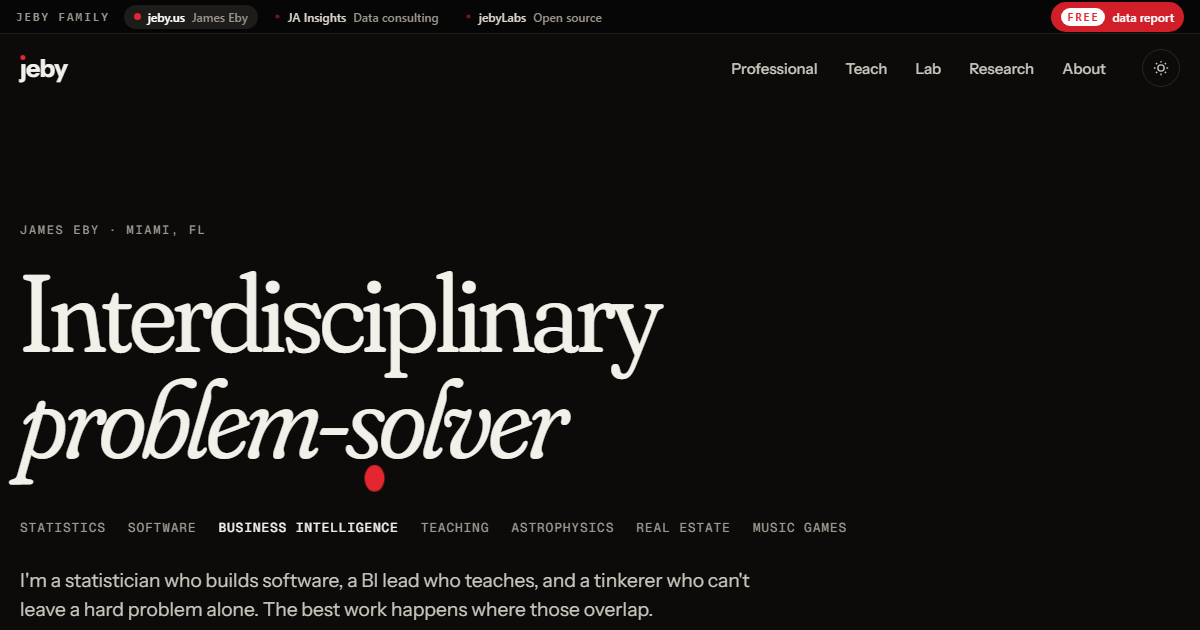
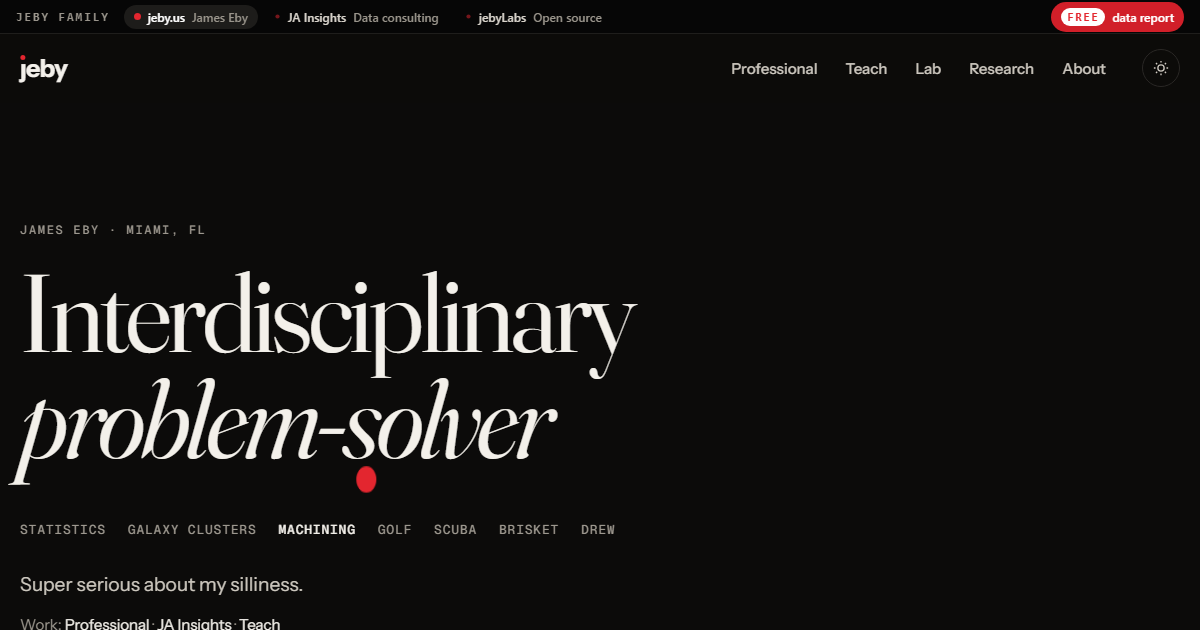
JEBYUS-0078: fix(home): Interdisciplinary problem-solver headline back; photo credit on the Drew photo (#22)
James (2026-11-17): the QA/QC passes failed by removing "Interdisciplinary
Problem-Solver" from his site; he wants it back on the main site, with a
photo credit for jenniferglezphotography.com on his photo with Drew.

- Home h1 restored to the pre-b46c863 markup: "Interdisciplinary
  problem-solver" with the dot slot; the hero eyebrow is
  "James Eby · Miami, FL" again so his name stays in the hero.
- Footer signature "Interdisciplinary problem-solver." back on every page.
- Home JSON-LD description back to "Interdisciplinary problem-solver:
  statistics, software, business intelligence and teaching."
- Photo credit "Photo: jenniferglezphotography.com" (linked, rel=noopener)
  under the photo on Home (about tile and Drew tile) and About (Drew tile),
  and in the About figure caption ("Drew and me. Photo: ...").
  .photo-credit in _src/jeby/src/site.css: 12 px mono, muted.
- og.png regenerated from the built Home (python _src/og.py).
- _src/ARCHITECTURE.md records the credit beside the photos.

Checks: python _src/build.py --check (0 files differ);
python _src/test_build.py (OK); python _src/test_check_docs.py (OK);
python _src/check_docs.py (164 files, 0 unowned, 0 problems);
python _src/check_links.py (854 links, none dead);
python _src/check_text.py --site jeby --widths 1440 390 (32 page renders
checked: 0 under 12 px, 0 below 4.5:1).

diff --git a/index.html b/index.html
@@ -13,7 +13,7 @@
 <link rel="stylesheet" href="assets/site.css">
 
 <script type="speculationrules">{"prerender":[{"where":{"href_matches":"/*"},"eagerness":"moderate"}]}</script>
-<script type="application/ld+json">{"@context": "https://schema.org", "@type": "Person", "name": "James Eby", "alternateName": "jeby", "url": "https://jeby.us/", "jobTitle": "Business intelligence leader and data scientist", "description": "Statistician in Miami, FL.", "address": {"@type": "PostalAddress", "addressLocality": "Miami", "addressRegion": "FL", "addressCountry": "US"}, "alumniOf": {"@type": "CollegeOrUniversity", "name": "Carnegie Mellon University"}, "knowsLanguage": ["en", "es"], "sameAs": ["https://www.instagram.com/jeby_d/", "https://www.linkedin.com/in/jeby-d", "https://github.com/jameseby21"]}</script>
+<script type="application/ld+json">{"@context": "https://schema.org", "@type": "Person", "name": "James Eby", "alternateName": "jeby", "url": "https://jeby.us/", "jobTitle": "Business intelligence leader and data scientist", "description": "Interdisciplinary problem-solver: statistics, software, business intelligence and teaching.", "address": {"@type": "PostalAddress", "addressLocality": "Miami", "addressRegion": "FL", "addressCountry": "US"}, "alumniOf": {"@type": "CollegeOrUniversity", "name": "Carnegie Mellon University"}, "knowsLanguage": ["en", "es"], "sameAs": ["https://www.instagram.com/jeby_d/", "https://www.linkedin.com/in/jeby-d", "https://github.com/jameseby21"]}</script>
 </head>
 <body data-page="home">
 <a class="skip" href="#main">Skip to content</a>
@@ -28,8 +28,8 @@
 </div></header>
 <main id="main">
 <section class="hero wrap">
-  <div class="eyebrow">Miami, FL</div>
-  <h1 class="page-title">James <span style="white-space:nowrap"><em>Eby</em><span class="dot-slot" aria-hidden="true"></span></span></h1>
+  <div class="eyebrow">James Eby · Miami, FL</div>
+  <h1 class="page-title">Interdisciplinary <span style="white-space:nowrap"><em>problem-solver</em><span class="dot-slot" aria-hidden="true"></span></span></h1>
   <ul class="disciplines" aria-label="Some of what I spend time on"><li><a href="research.html">Statistics</a></li><li><a href="research.html">Galaxy clusters</a></li><li><a href="about.html#interests">Machining</a></li><li><a href="about.html#interests">Golf</a></li><li><a href="about.html#interests">SCUBA</a></li><li><a href="about.html#interests">Brisket</a></li><li><a href="about.html#drew">Drew</a></li></ul>
   <p class="lede">Super serious about my silliness.</p>
   <p class="hero-work">Work: <a href="professional.html">Professional</a> · <a data-x="jai" data-p="index.html">JA Insights</a> · <a href="teach.html">Teach</a></p>
@@ -45,7 +45,7 @@
 <section class="wrap block" aria-label="Start here">
   <div class="bento">
     <div class="tile span-7 about-tile">
-      <picture class="me"><img src="assets/james-drew-600.jpg" srcset="assets/james-drew-600.jpg 600w, assets/james-drew.jpg 1000w" sizes="(max-width:640px) 90vw, 280px" alt="James holding Drew, his black Scottish Terrier, in a Miami backyard" width="600" height="750" loading="lazy"></picture>
+      <div class="me-wrap"><picture class="me"><img src="assets/james-drew-600.jpg" srcset="assets/james-drew-600.jpg 600w, assets/james-drew.jpg 1000w" sizes="(max-width:640px) 90vw, 280px" alt="James holding Drew, his black Scottish Terrier, in a Miami backyard" width="600" height="750" loading="lazy"></picture><p class="photo-credit">Photo: <a href="https://jenniferglezphotography.com" rel="noopener">jenniferglezphotography.com</a></p></div>
       <div class="about-text"><div class="eyebrow">About</div>
       <h2>Hi, I'm James.</h2>
       <p>I live in Miami with Drew. I studied statistics at Carnegie Mellon, and I have more side projects than free evenings.</p>
@@ -54,7 +54,7 @@
     </div>
     <div class="tile span-5 drew-tile">
       <div class="eyebrow">Scottish Terrier</div>
-      <div class="drew-photo"><img src="assets/james-drew-600.jpg" alt="Drew, a black Scottish Terrier, in James&#39;s arms in a Miami backyard" width="600" height="750" loading="lazy"></div>
+      <div class="drew-photo"><img src="assets/james-drew-600.jpg" alt="Drew, a black Scottish Terrier, in James&#39;s arms in a Miami backyard" width="600" height="750" loading="lazy"></div><p class="photo-credit">Photo: <a href="https://jenniferglezphotography.com" rel="noopener">jenniferglezphotography.com</a></p>
       <h2>Drew</h2>
       <p>He&#x27;s on my business cards, my QR codes and half my projects. Nobody asked him.</p>
     </div>
@@ -88,7 +88,7 @@
   <ul class="now"><li><b>Research</b><span>Picking the galaxy-cluster work back up, ten years after the poster, to see if it holds. <a class="now-go" href="research.html" aria-label="Research: more"><span class="arrow" aria-hidden="true">→</span></a></span></li><li><b>Building</b><span>A band game that turns any song into a chart you can actually play. <a class="now-go" href="lab.html#musicalgames" aria-label="Building: more"><span class="arrow" aria-hidden="true">→</span></a></span></li><li><b>Teaching</b><span>Taking on math, statistics and data students again. <a class="now-go" href="teach.html" aria-label="Teaching: more"><span class="arrow" aria-hidden="true">→</span></a></span></li><li><b>Work</b><span>Looking for my next BI leadership role. <a class="now-go" href="professional.html" aria-label="Work: more"><span class="arrow" aria-hidden="true">→</span></a></span></li></ul>
 </section></main>
 <footer class="site-footer"><div class="wrap">
-  <div><p class="sig">No trackers and no pop-ups. Just pages.</p><small>© <span data-year>2026</span> James Eby · Miami, FL</small></div>
+  <div><p class="sig">Interdisciplinary problem-solver.</p><small>© <span data-year>2026</span> James Eby · Miami, FL</small></div>
   <div><h3>Site</h3><ul><li><a href="index.html">Home</a></li><li><a href="professional.html">Professional</a></li><li><a href="teach.html">Teach</a></li><li><a href="lab.html">Lab</a></li><li><a href="research.html">Research</a></li><li><a href="about.html">About</a></li></ul></div>
   <div><h3>Free</h3><ul><li><a data-x="jai" data-p="report.html">Data report</a></li><li><a href="qr.html">Image to QR code</a></li><li><a href="lab.html">Lab projects</a></li></ul></div>
   <div><h3>Elsewhere</h3><ul><li><a href="https://www.instagram.com/jeby_d/" target="_blank" rel="noopener">Instagram</a></li><li><a href="https://www.linkedin.com/in/jeby-d" target="_blank" rel="noopener">LinkedIn</a></li><li><a href="https://github.com/jameseby21" target="_blank" rel="noopener">GitHub</a></li><li><a href="#" data-copy-email="jeby@jainsights.com">Email</a></li></ul></div>

diff --git a/about.html b/about.html
@@ -34,8 +34,8 @@
   <div class="prose"><p>I live in Miami with Drew, a Scottish Terrier who appears on more of my projects than I do.</p><p>I studied statistics at Carnegie Mellon University with a concentration in computer science, I am a senior BI manager, and I&#x27;m drawn to difficult problems.</p><p>Away from the keyboard I like things that can&#x27;t be rushed: machining, golf, diving, archery, kayaking with Drew, and brisket, which is twelve hours of patience for twenty minutes of dinner.</p><p class="work-line">Work lives on other pages: <a href="professional.html">Professional</a>, <a data-x="jai" data-p="index.html">JA Insights</a> and <a href="teach.html">Teach</a>.</p>
     <div class="tile" id="interests" style="margin-top:28px"><dl class="facts"><dt>Based</dt><dd>Miami, FL</dd><dt>Studied</dt><dd>B.S. Statistics, Carnegie Mellon, 2019</dd><dt>Off the clock</dt><dd>Machining, golf, SCUBA, archery, kayaking with Drew, and brisket</dd></dl><a class="go" href="https://www.instagram.com/jeby_d/" target="_blank" rel="noopener">@jeby_d on Instagram <span class="arrow" aria-hidden="true">→</span></a></div></div>
   <div style="display:grid;gap:16px">
-    <figure class="photo"><img src="assets/james-drew.jpg" srcset="assets/james-drew-600.jpg 600w, assets/james-drew.jpg 1000w" sizes="(max-width:860px) 92vw, 460px" alt="James holding Drew, his black Scottish Terrier, in a Miami backyard" width="1000" height="1250"><figcaption>Drew and me.</figcaption></figure>
-    <div class="tile drew-tile" id="drew"><div class="eyebrow">Scottish Terrier</div><div class="drew-photo"><img src="assets/james-drew-600.jpg" alt="Drew, a black Scottish Terrier, in James&#39;s arms in a Miami backyard" width="600" height="750" loading="lazy"></div><h2>Drew</h2><p>He&#x27;s on my business cards, my QR codes and half my projects. Nobody asked him.</p></div>
+    <figure class="photo"><img src="assets/james-drew.jpg" srcset="assets/james-drew-600.jpg 600w, assets/james-drew.jpg 1000w" sizes="(max-width:860px) 92vw, 460px" alt="James holding Drew, his black Scottish Terrier, in a Miami backyard" width="1000" height="1250"><figcaption>Drew and me. Photo: <a href="https://jenniferglezphotography.com" rel="noopener">jenniferglezphotography.com</a></figcaption></figure>
+    <div class="tile drew-tile" id="drew"><div class="eyebrow">Scottish Terrier</div><div class="drew-photo"><img src="assets/james-drew-600.jpg" alt="Drew, a black Scottish Terrier, in James&#39;s arms in a Miami backyard" width="600" height="750" loading="lazy"></div><p class="photo-credit">Photo: <a href="https://jenniferglezphotography.com" rel="noopener">jenniferglezphotography.com</a></p><h2>Drew</h2><p>He&#x27;s on my business cards, my QR codes and half my projects. Nobody asked him.</p></div>
   </div>
 </div></section>
 <section class="wrap block" id="story" aria-labelledby="story-h"><div class="story-grid">
@@ -44,7 +44,7 @@
 <section class="wrap block" id="contact" aria-labelledby="contact-h"><div class="callout"><div><div class="eyebrow">Contact</div><h3 id="contact-h">Email is the fastest way to reach me.</h3><p class="muted" style="margin-top:6px" data-email="jeby@jainsights.com" data-show>jeby@jainsights.com</p></div>
   <div style="display:flex;gap:10px;flex-wrap:wrap"><a class="btn solid" href="#" data-copy-email="jeby@jainsights.com"><svg viewBox="0 0 24 24" fill="none" stroke="currentColor" stroke-width="1.8" aria-hidden="true"><rect x="3" y="5" width="18" height="14" rx="2"/><path d="m3.5 6.5 8.5 6.5 8.5-6.5"/></svg> Copy email</a><a class="btn" href="https://www.linkedin.com/in/jeby-d" target="_blank" rel="noopener"><svg viewBox="0 0 24 24" fill="currentColor" aria-hidden="true"><path d="M4.98 3.5a2.5 2.5 0 1 1 0 5 2.5 2.5 0 0 1 0-5zM3 9.5h4V21H3zM9.5 9.5h3.8v1.6h.06c.53-1 1.84-2.06 3.79-2.06 4.05 0 4.8 2.67 4.8 6.13V21h-4v-5.1c0-1.22-.02-2.78-1.7-2.78-1.7 0-1.96 1.33-1.96 2.7V21h-4z"/></svg> LinkedIn</a><a class="btn" href="https://www.instagram.com/jeby_d/" target="_blank" rel="noopener"><svg viewBox="0 0 24 24" fill="none" stroke="currentColor" stroke-width="1.8" aria-hidden="true"><rect x="3" y="3" width="18" height="18" rx="5"/><circle cx="12" cy="12" r="4"/><circle cx="17.5" cy="6.5" r="1" fill="currentColor"/></svg> Instagram</a><a class="btn" href="https://github.com/jameseby21" target="_blank" rel="noopener"><svg viewBox="0 0 24 24" fill="currentColor" aria-hidden="true"><path d="M12 .5a11.5 11.5 0 0 0-3.64 22.41c.58.1.79-.25.79-.56v-2c-3.2.7-3.88-1.37-3.88-1.37-.53-1.33-1.28-1.69-1.28-1.69-1.05-.71.08-.7.08-.7 1.16.08 1.77 1.19 1.77 1.19 1.03 1.77 2.7 1.26 3.36.96.1-.75.4-1.26.73-1.55-2.55-.29-5.24-1.28-5.24-5.68 0-1.25.45-2.28 1.18-3.08-.12-.29-.51-1.46.11-3.04 0 0 .97-.31 3.17 1.18a11 11 0 0 1 5.77 0c2.2-1.49 3.17-1.18 3.17-1.18.62 1.58.23 2.75.11 3.04.74.8 1.18 1.83 1.18 3.08 0 4.41-2.7 5.38-5.26 5.67.41.36.78 1.06.78 2.14v3.17c0 .31.21.67.8.56A11.5 11.5 0 0 0 12 .5z"/></svg> GitHub</a></div></div></section></main>
 <footer class="site-footer"><div class="wrap">
-  <div><p class="sig">No trackers and no pop-ups. Just pages.</p><small>© <span data-year>2026</span> James Eby · Miami, FL</small></div>
+  <div><p class="sig">Interdisciplinary problem-solver.</p><small>© <span data-year>2026</span> James Eby · Miami, FL</small></div>
   <div><h3>Site</h3><ul><li><a href="index.html">Home</a></li><li><a href="professional.html">Professional</a></li><li><a href="teach.html">Teach</a></li><li><a href="lab.html">Lab</a></li><li><a href="research.html">Research</a></li><li><a href="about.html">About</a></li></ul></div>
   <div><h3>Free</h3><ul><li><a data-x="jai" data-p="report.html">Data report</a></li><li><a href="qr.html">Image to QR code</a></li><li><a href="lab.html">Lab projects</a></li></ul></div>
   <div><h3>Elsewhere</h3><ul><li><a href="https://www.instagram.com/jeby_d/" target="_blank" rel="noopener">Instagram</a></li><li><a href="https://www.linkedin.com/in/jeby-d" target="_blank" rel="noopener">LinkedIn</a></li><li><a href="https://github.com/jameseby21" target="_blank" rel="noopener">GitHub</a></li><li><a href="#" data-copy-email="jeby@jainsights.com">Email</a></li></ul></div>

diff --git a/lab.html b/lab.html
@@ -62,7 +62,7 @@
 <div class="row-body lab-body"><div><p>Static pages generated from one content file, with native page transitions and no tracking.</p><div class="chips"><span class="chip">HTML</span><span class="chip">CSS</span><span class="chip">JavaScript</span><span class="chip">Python</span></div><div class="tiers"><div class="tier"><span class="eyebrow">Free · jebyLabs</span><p>Everything</p></div>
       <div class="tier none"><span class="eyebrow">Paid version, planned</span><p>No paid version planned</p></div></div><div class="lab-links"><a class="btn small" href="https://github.com/jameseby21/jeby-us" target="_blank" rel="noopener"><svg viewBox="0 0 24 24" fill="currentColor" aria-hidden="true"><path d="M12 .5a11.5 11.5 0 0 0-3.64 22.41c.58.1.79-.25.79-.56v-2c-3.2.7-3.88-1.37-3.88-1.37-.53-1.33-1.28-1.69-1.28-1.69-1.05-.71.08-.7.08-.7 1.16.08 1.77 1.19 1.77 1.19 1.03 1.77 2.7 1.26 3.36.96.1-.75.4-1.26.73-1.55-2.55-.29-5.24-1.28-5.24-5.68 0-1.25.45-2.28 1.18-3.08-.12-.29-.51-1.46.11-3.04 0 0 .97-.31 3.17 1.18a11 11 0 0 1 5.77 0c2.2-1.49 3.17-1.18 3.17-1.18.62 1.58.23 2.75.11 3.04.74.8 1.18 1.83 1.18 3.08 0 4.41-2.7 5.38-5.26 5.67.41.36.78 1.06.78 2.14v3.17c0 .31.21.67.8.56A11.5 11.5 0 0 0 12 .5z"/></svg> Code</a></div></div></div></details></div></section></section></main>
 <footer class="site-footer"><div class="wrap">
-  <div><p class="sig">No trackers and no pop-ups. Just pages.</p><small>© <span data-year>2026</span> James Eby · Miami, FL</small></div>
+  <div><p class="sig">Interdisciplinary problem-solver.</p><small>© <span data-year>2026</span> James Eby · Miami, FL</small></div>
   <div><h3>Site</h3><ul><li><a href="index.html">Home</a></li><li><a href="professional.html">Professional</a></li><li><a href="teach.html">Teach</a></li><li><a href="lab.html">Lab</a></li><li><a href="research.html">Research</a></li><li><a href="about.html">About</a></li></ul></div>
   <div><h3>Free</h3><ul><li><a data-x="jai" data-p="report.html">Data report</a></li><li><a href="qr.html">Image to QR code</a></li><li><a href="lab.html">Lab projects</a></li></ul></div>
   <div><h3>Elsewhere</h3><ul><li><a href="https://www.instagram.com/jeby_d/" target="_blank" rel="noopener">Instagram</a></li><li><a href="https://www.linkedin.com/in/jeby-d" target="_blank" rel="noopener">LinkedIn</a></li><li><a href="https://github.com/jameseby21" target="_blank" rel="noopener">GitHub</a></li><li><a href="#" data-copy-email="jeby@jainsights.com">Email</a></li></ul></div>

diff --git a/professional.html b/professional.html
@@ -92,7 +92,7 @@
 <section class="wrap block"><div class="callout"><div><div class="eyebrow">Hiring</div><h3>Building or rebuilding an analytics team?</h3></div>
   <div style="display:flex;gap:10px;flex-wrap:wrap"><a class="btn solid" href="#" data-copy-email="jeby@jainsights.com"><svg viewBox="0 0 24 24" fill="none" stroke="currentColor" stroke-width="1.8" aria-hidden="true"><rect x="3" y="5" width="18" height="14" rx="2"/><path d="m3.5 6.5 8.5 6.5 8.5-6.5"/></svg> Email me</a><a class="btn" href="https://www.linkedin.com/in/jeby-d" target="_blank" rel="noopener"><svg viewBox="0 0 24 24" fill="currentColor" aria-hidden="true"><path d="M4.98 3.5a2.5 2.5 0 1 1 0 5 2.5 2.5 0 0 1 0-5zM3 9.5h4V21H3zM9.5 9.5h3.8v1.6h.06c.53-1 1.84-2.06 3.79-2.06 4.05 0 4.8 2.67 4.8 6.13V21h-4v-5.1c0-1.22-.02-2.78-1.7-2.78-1.7 0-1.96 1.33-1.96 2.7V21h-4z"/></svg> LinkedIn</a></div></div></section></main>
 <footer class="site-footer"><div class="wrap">
-  <div><p class="sig">No trackers and no pop-ups. Just pages.</p><small>© <span data-year>2026</span> James Eby · Miami, FL</small></div>
+  <div><p class="sig">Interdisciplinary problem-solver.</p><small>© <span data-year>2026</span> James Eby · Miami, FL</small></div>
   <div><h3>Site</h3><ul><li><a href="index.html">Home</a></li><li><a href="professional.html">Professional</a></li><li><a href="teach.html">Teach</a></li><li><a href="lab.html">Lab</a></li><li><a href="research.html">Research</a></li><li><a href="about.html">About</a></li></ul></div>
   <div><h3>Free</h3><ul><li><a data-x="jai" data-p="report.html">Data report</a></li><li><a href="qr.html">Image to QR code</a></li><li><a href="lab.html">Lab projects</a></li></ul></div>
   <div><h3>Elsewhere</h3><ul><li><a href="https://www.instagram.com/jeby_d/" target="_blank" rel="noopener">Instagram</a></li><li><a href="https://www.linkedin.com/in/jeby-d" target="_blank" rel="noopener">LinkedIn</a></li><li><a href="https://github.com/jameseby21" target="_blank" rel="noopener">GitHub</a></li><li><a href="#" data-copy-email="jeby@jainsights.com">Email</a></li></ul></div>

diff --git a/teach.html b/teach.html
@@ -75,7 +75,7 @@
 </section>
 <section class="wrap block"><div class="callout"><div><div class="eyebrow">Not sure where to start?</div><h3>Book a free 20-minute intro.</h3></div><a class="btn solid" href="mailto:jeby@jainsights.com?subject=Free 20-minute intro" data-email="jeby@jainsights.com" data-subject="Free 20-minute intro">Book the intro <span class="arrow" aria-hidden="true">→</span></a></div></section></main>
 <footer class="site-footer"><div class="wrap">
-  <div><p class="sig">No trackers and no pop-ups. Just pages.</p><small>© <span data-year>2026</span> James Eby · Miami, FL</small></div>
+  <div><p class="sig">Interdisciplinary problem-solver.</p><small>© <span data-year>2026</span> James Eby · Miami, FL</small></div>
   <div><h3>Site</h3><ul><li><a href="index.html">Home</a></li><li><a href="professional.html">Professional</a></li><li><a href="teach.html">Teach</a></li><li><a href="lab.html">Lab</a></li><li><a href="research.html">Research</a></li><li><a href="about.html">About</a></li></ul></div>
   <div><h3>Free</h3><ul><li><a data-x="jai" data-p="report.html">Data report</a></li><li><a href="qr.html">Image to QR code</a></li><li><a href="lab.html">Lab projects</a></li></ul></div>
   <div><h3>Elsewhere</h3><ul><li><a href="https://www.instagram.com/jeby_d/" target="_blank" rel="noopener">Instagram</a></li><li><a href="https://www.linkedin.com/in/jeby-d" target="_blank" rel="noopener">LinkedIn</a></li><li><a href="https://github.com/jameseby21" target="_blank" rel="noopener">GitHub</a></li><li><a href="#" data-copy-email="jeby@jainsights.com">Email</a></li></ul></div>

diff --git a/research.html b/research.html
@@ -35,7 +35,7 @@
 <p class="rs-foot">James Eby · Carnegie Mellon University, Department of Statistics · Advisor: Peter Freeman · 2015 · <a href="research/poster.pdf" target="_blank" rel="noopener">The original poster (PDF)</a> · Use the arrow keys or swipe to move between slides.</p>
 </section></main>
 <footer class="site-footer"><div class="wrap">
-  <div><p class="sig">No trackers and no pop-ups. Just pages.</p><small>© <span data-year>2026</span> James Eby · Miami, FL</small></div>
+  <div><p class="sig">Interdisciplinary problem-solver.</p><small>© <span data-year>2026</span> James Eby · Miami, FL</small></div>
   <div><h3>Site</h3><ul><li><a href="index.html">Home</a></li><li><a href="professional.html">Professional</a></li><li><a href="teach.html">Teach</a></li><li><a href="lab.html">Lab</a></li><li><a href="research.html">Research</a></li><li><a href="about.html">About</a></li></ul></div>
   <div><h3>Free</h3><ul><li><a data-x="jai" data-p="report.html">Data report</a></li><li><a href="qr.html">Image to QR code</a></li><li><a href="lab.html">Lab projects</a></li></ul></div>
   <div><h3>Elsewhere</h3><ul><li><a href="https://www.instagram.com/jeby_d/" target="_blank" rel="noopener">Instagram</a></li><li><a href="https://www.linkedin.com/in/jeby-d" target="_blank" rel="noopener">LinkedIn</a></li><li><a href="https://github.com/jameseby21" target="_blank" rel="noopener">GitHub</a></li><li><a href="#" data-copy-email="jeby@jainsights.com">Email</a></li></ul></div>

diff --git a/qr.html b/qr.html
@@ -54,7 +54,7 @@ Goal: a QR code for [YOUR URL] with my image blended in, that still scans on an 
   </div>
 </section></main>
 <footer class="site-footer"><div class="wrap">
-  <div><p class="sig">No trackers and no pop-ups. Just pages.</p><small>© <span data-year>2026</span> James Eby · Miami, FL</small></div>
+  <div><p class="sig">Interdisciplinary problem-solver.</p><small>© <span data-year>2026</span> James Eby · Miami, FL</small></div>
   <div><h3>Site</h3><ul><li><a href="index.html">Home</a></li><li><a href="professional.html">Professional</a></li><li><a href="teach.html">Teach</a></li><li><a href="lab.html">Lab</a></li><li><a href="research.html">Research</a></li><li><a href="about.html">About</a></li></ul></div>
   <div><h3>Free</h3><ul><li><a data-x="jai" data-p="report.html">Data report</a></li><li><a href="qr.html">Image to QR code</a></li><li><a href="lab.html">Lab projects</a></li></ul></div>
   <div><h3>Elsewhere</h3><ul><li><a href="https://www.instagram.com/jeby_d/" target="_blank" rel="noopener">Instagram</a></li><li><a href="https://www.linkedin.com/in/jeby-d" target="_blank" rel="noopener">LinkedIn</a></li><li><a href="https://github.com/jameseby21" target="_blank" rel="noopener">GitHub</a></li><li><a href="#" data-copy-email="jeby@jainsights.com">Email</a></li></ul></div>

diff --git a/yt.html b/yt.html
@@ -54,7 +54,7 @@ Goal: a QR code for [YOUR URL] with my image blended in, that still scans on an 
   </div>
 </section></main>
 <footer class="site-footer"><div class="wrap">
-  <div><p class="sig">No trackers and no pop-ups. Just pages.</p><small>© <span data-year>2026</span> James Eby · Miami, FL</small></div>
+  <div><p class="sig">Interdisciplinary problem-solver.</p><small>© <span data-year>2026</span> James Eby · Miami, FL</small></div>
   <div><h3>Site</h3><ul><li><a href="index.html">Home</a></li><li><a href="professional.html">Professional</a></li><li><a href="teach.html">Teach</a></li><li><a href="lab.html">Lab</a></li><li><a href="research.html">Research</a></li><li><a href="about.html">About</a></li></ul></div>
   <div><h3>Free</h3><ul><li><a data-x="jai" data-p="report.html">Data report</a></li><li><a href="qr.html">Image to QR code</a></li><li><a href="lab.html">Lab projects</a></li></ul></div>
   <div><h3>Elsewhere</h3><ul><li><a href="https://www.instagram.com/jeby_d/" target="_blank" rel="noopener">Instagram</a></li><li><a href="https://www.linkedin.com/in/jeby-d" target="_blank" rel="noopener">LinkedIn</a></li><li><a href="https://github.com/jameseby21" target="_blank" rel="noopener">GitHub</a></li><li><a href="#" data-copy-email="jeby@jainsights.com">Email</a></li></ul></div>

diff --git a/_src/jeby/src/site.css b/_src/jeby/src/site.css
@@ -326,6 +326,10 @@ details.group[open]>summary .chev{transform:rotate(180deg)}
 .me img{aspect-ratio:4/5}
 figure.photo{margin:0;display:grid;gap:8px}
 figure.photo figcaption{font:500 12px/1.3 var(--mono);letter-spacing:.12em;text-transform:uppercase;color:var(--muted)}
+/* photographer credit on the photo with Drew (JEBYUS-0078) */
+p.photo-credit{font:500 12px/1.3 var(--mono);letter-spacing:.04em;color:var(--muted);margin:8px 0 0}
+.photo-credit a,figure.photo figcaption a{color:inherit;text-transform:none;letter-spacing:.04em}
+.drew-tile .photo-credit{color:#5f5a52;margin:0}
 @media (max-width:640px){.about-tile{grid-template-columns:1fr}}
 
 /* qr prompt page */

diff --git a/assets/site.css b/assets/site.css
@@ -326,6 +326,10 @@ details.group[open]>summary .chev{transform:rotate(180deg)}
 .me img{aspect-ratio:4/5}
 figure.photo{margin:0;display:grid;gap:8px}
 figure.photo figcaption{font:500 12px/1.3 var(--mono);letter-spacing:.12em;text-transform:uppercase;color:var(--muted)}
+/* photographer credit on the photo with Drew (JEBYUS-0078) */
+p.photo-credit{font:500 12px/1.3 var(--mono);letter-spacing:.04em;color:var(--muted);margin:8px 0 0}
+.photo-credit a,figure.photo figcaption a{color:inherit;text-transform:none;letter-spacing:.04em}
+.drew-tile .photo-credit{color:#5f5a52;margin:0}
 @media (max-width:640px){.about-tile{grid-template-columns:1fr}}
 
 /* qr prompt page */

diff --git a/_src/jeby/build.py b/_src/jeby/build.py
@@ -50,7 +50,7 @@ def header(active):
 def footer():
     site = "".join(f'<li><a href="{k}.html">{n}</a></li>' for k, n in PAGES)
     return f'''<footer class="site-footer"><div class="wrap">
-  <div><p class="sig">No trackers and no pop-ups. Just pages.</p><small>© <span data-year>2026</span> James Eby · Miami, FL</small></div>
+  <div><p class="sig">Interdisciplinary problem-solver.</p><small>© <span data-year>2026</span> James Eby · Miami, FL</small></div>
   <div><h3>Site</h3><ul><li><a href="index.html">Home</a></li>{site}</ul></div>
   <div><h3>Free</h3><ul><li><a data-x="jai" data-p="report.html">Data report</a></li><li><a href="qr.html">Image to QR code</a></li><li><a href="lab.html">Lab projects</a></li></ul></div>
   <div><h3>Elsewhere</h3><ul><li><a href="{C.CONFIG["instagram"]}" target="_blank" rel="noopener">Instagram</a></li><li><a href="{C.CONFIG["linkedin"]}" target="_blank" rel="noopener">LinkedIn</a></li><li><a href="{C.CONFIG["github"]}" target="_blank" rel="noopener">GitHub</a></li>{f'<li><a href="{C.CONFIG["youtube"]}" target="_blank" rel="noopener">YouTube</a></li>' if C.CONFIG["youtube"] else ""}<li><a href="#" data-copy-email="{C.CONFIG["email"]}">Email</a></li></ul></div>
@@ -58,7 +58,7 @@ def footer():
 </div></footer>'''
 
 PERSON = {"@context": "https://schema.org", "@type": "Person", "name": "James Eby", "alternateName": "jeby", "url": "https://jeby.us/",
-          "jobTitle": "Business intelligence leader and data scientist", "description": "Statistician in Miami, FL.",
+          "jobTitle": "Business intelligence leader and data scientist", "description": "Interdisciplinary problem-solver: statistics, software, business intelligence and teaching.",
           "address": {"@type": "PostalAddress", "addressLocality": "Miami", "addressRegion": "FL", "addressCountry": "US"},
           "alumniOf": {"@type": "CollegeOrUniversity", "name": "Carnegie Mellon University"}, "knowsLanguage": ["en", "es"],
           "sameAs": [C.CONFIG["instagram"], C.CONFIG["linkedin"], C.CONFIG["github"]]}
@@ -81,10 +81,13 @@ def page(key, title, desc, body, extra_head="", extra_js="", artifact=False):
     return f'<!doctype html>\n<html lang="en">\n<head>\n<meta charset="utf-8">\n<meta name="viewport" content="width=device-width, initial-scale=1, viewport-fit=cover">\n{head}\n</head>\n<body data-page="{key}">\n{bodyhtml}\n</body>\n</html>\n'
 
 # ---------------------------------------------------------------- shared bits
+# James (2026-11-17): every appearance of the photo with Drew credits the photographer.
+CREDIT_LINK = '<a href="https://jenniferglezphotography.com" rel="noopener">jenniferglezphotography.com</a>'
+PHOTO_CREDIT = f'<p class="photo-credit">Photo: {CREDIT_LINK}</p>'
 drew_src = (ST / "drew-tongue.svg").read_text(encoding="utf-8")
 drew_svg = re.sub(r"<style>.*?</style>", "", drew_src, flags=re.S).replace('class="tongue"', 'class="tongue-anim"').replace('id="mouth"', 'id="drew-mouth"').replace("url(#mouth)", "url(#drew-mouth)")
 drew_svg = re.sub(r'<svg ([^>]*?) width="512" height="504"', r'<svg \1', drew_svg).replace("<title>Drew sticking his tongue out</title>", "")
-DREW = '<div class="drew-photo"><img src="assets/james-drew-600.jpg" alt="Drew, a black Scottish Terrier, in James&#39;s arms in a Miami backyard" width="600" height="750" loading="lazy"></div>'
+DREW = '<div class="drew-photo"><img src="assets/james-drew-600.jpg" alt="Drew, a black Scottish Terrier, in James&#39;s arms in a Miami backyard" width="600" height="750" loading="lazy"></div>' + PHOTO_CREDIT
 
 def mark(item):
     t = BR.tile(item["id"], themed=True)
@@ -119,8 +122,8 @@ def free_strip(title="Free things"):
 stars = "".join(f'<circle cx="{(i*73)%400}" cy="{(i*131)%300}" r="{0.6 + (i%5)*0.35}" fill="{["#eeecf2","#4084ff","#ff2b3d"][i%7==0 and 2 or (i%5==0 and 1) or 0]}" opacity="{0.25 + (i%4)*0.18:.2f}"/>' for i in range(90))
 home = f'''
 <section class="hero wrap">
-  <div class="eyebrow">Miami, FL</div>
-  <h1 class="page-title">James <span style="white-space:nowrap"><em>Eby</em><span class="dot-slot" aria-hidden="true"></span></span></h1>
+  <div class="eyebrow">James Eby · Miami, FL</div>
+  <h1 class="page-title">Interdisciplinary <span style="white-space:nowrap"><em>problem-solver</em><span class="dot-slot" aria-hidden="true"></span></span></h1>
   <ul class="disciplines" aria-label="Some of what I spend time on">{"".join(f'<li><a href="{E(h)}">{E(d)}</a></li>' for d, h in C.DISCIPLINES)}</ul>
   <p class="lede">{E(C.HERO)}</p>
   <p class="hero-work">Work: <a href="professional.html">Professional</a> · <a data-x="jai" data-p="index.html">JA Insights</a> · <a href="teach.html">Teach</a></p>
@@ -129,7 +132,7 @@ home = f'''
 <section class="wrap block" aria-label="Start here">
   <div class="bento">
     <div class="tile span-7 about-tile">
-      <picture class="me"><img src="assets/james-drew-600.jpg" srcset="assets/james-drew-600.jpg 600w, assets/james-drew.jpg 1000w" sizes="(max-width:640px) 90vw, 280px" alt="James holding Drew, his black Scottish Terrier, in a Miami backyard" width="600" height="750" loading="lazy"></picture>
+      <div class="me-wrap"><picture class="me"><img src="assets/james-drew-600.jpg" srcset="assets/james-drew-600.jpg 600w, assets/james-drew.jpg 1000w" sizes="(max-width:640px) 90vw, 280px" alt="James holding Drew, his black Scottish Terrier, in a Miami backyard" width="600" height="750" loading="lazy"></picture>{PHOTO_CREDIT}</div>
       <div class="about-text"><div class="eyebrow">About</div>
       <h2>Hi, I'm James.</h2>
       <p>{E(C.ABOUT_SHORT)}</p>
@@ -356,7 +359,7 @@ about = f'''
   <div class="prose">{"".join(f"<p>{E(p)}</p>" for p in C.ABOUT_LONG)}<p class="work-line">Work lives on other pages: <a href="professional.html">Professional</a>, <a data-x="jai" data-p="index.html">JA Insights</a> and <a href="teach.html">Teach</a>.</p>
     <div class="tile" id="interests" style="margin-top:28px"><dl class="facts">{"".join(f"<dt>{E(a)}</dt><dd>{E(b)}</dd>" for a, b in C.FACTS)}</dl><a class="go" href="{C.CONFIG["instagram"]}" target="_blank" rel="noopener">@jeby_d on Instagram {ARROW}</a></div></div>
   <div style="display:grid;gap:16px">
-    <figure class="photo"><img src="assets/james-drew.jpg" srcset="assets/james-drew-600.jpg 600w, assets/james-drew.jpg 1000w" sizes="(max-width:860px) 92vw, 460px" alt="James holding Drew, his black Scottish Terrier, in a Miami backyard" width="1000" height="1250"><figcaption>Drew and me.</figcaption></figure>
+    <figure class="photo"><img src="assets/james-drew.jpg" srcset="assets/james-drew-600.jpg 600w, assets/james-drew.jpg 1000w" sizes="(max-width:860px) 92vw, 460px" alt="James holding Drew, his black Scottish Terrier, in a Miami backyard" width="1000" height="1250"><figcaption>Drew and me. Photo: {CREDIT_LINK}</figcaption></figure>
     <div class="tile drew-tile" id="drew"><div class="eyebrow">{E(C.DREW["role"])}</div>{DREW}<h2>{E(C.DREW["title"])}</h2><p>{E(C.DREW["short"])}</p></div>
   </div>
 </div></section>

diff --git a/_src/ARCHITECTURE.md b/_src/ARCHITECTURE.md
@@ -316,7 +316,7 @@ Paths are sources; the published copy at the repo root or under `assets/` is byt
 | Drew QR code | `_src/jeby/static/drew-qr.png`, published as `drew-qr.png` | PNG, 1000 × 1000 | — | QR page and the Home free strip |
 | Project marks: two or more candidates for every Lab project (jRE, learningLabs, Galaxy-cluster masses, Cell-count pipeline, MusicalGames, Plantriloquist, Desk, Lighting Lab, Quorum, AppForge, jeby.us) | `products` in `_src/brand/marks.json`, files in `_src/brand/marks/`, copied by `_src/brand/brand.py` to `assets/brand/` on both sites. The drawings' source of truth is the jeby team Drive folder "Branding assets" | SVG 64 × 64 tiles; the original Plantriloquist pot stays a PNG | Light and dark files. jeby.us follows its theme toggle; jainsights.com uses the light files | jeby.us Lab rows, Home tiles and free strip; jainsights.com Products rows and Home strip. A project missing from `marks.json` falls back to its letter in `LAB` |
 
-Also in `static/`, and not marks: two photos (`james-drew.jpg` and its 600 px version, used on Home and About) and the research poster PDF.
+Also in `static/`, and not marks: two photos (`james-drew.jpg` and its 600 px version, used on Home and About) and the research poster PDF. Every appearance of the photo with Drew carries the photographer's credit, "Photo: jenniferglezphotography.com" linked to the site (`PHOTO_CREDIT` and `CREDIT_LINK` in `_src/jeby/build.py`, styled by `.photo-credit` in `_src/jeby/src/site.css`; JEBYUS-0078).
 
 Marks follow the cycling rule (jeby team Drive > Branding assets > READ ME). The build renders each slot's first candidate, so pages work without JavaScript. `assets/brand.js` then picks one at random per browser session, never the previous session's pick, for every project mark and for the favicon, and keeps it for the whole session. Clicking a mark moves to the next candidate by hand and the hand pick sticks in that browser (`localStorage`, `jeby-hand:<slot>`), replacing the random pick. The favicon follows the logo: jeby.us's favicon shares the pick of the `jebyus` mark on the Lab page, and its light or dark file follows the site's light toggle. Checked by `node _src/brand/check_brand.js`. Status lives in `marks.json` (candidate, chosen, retired); a retired candidate drops out at the next build. The red dot that hops across the Home headline is an animation of the wordmark's dot, not a swap between files.
 
